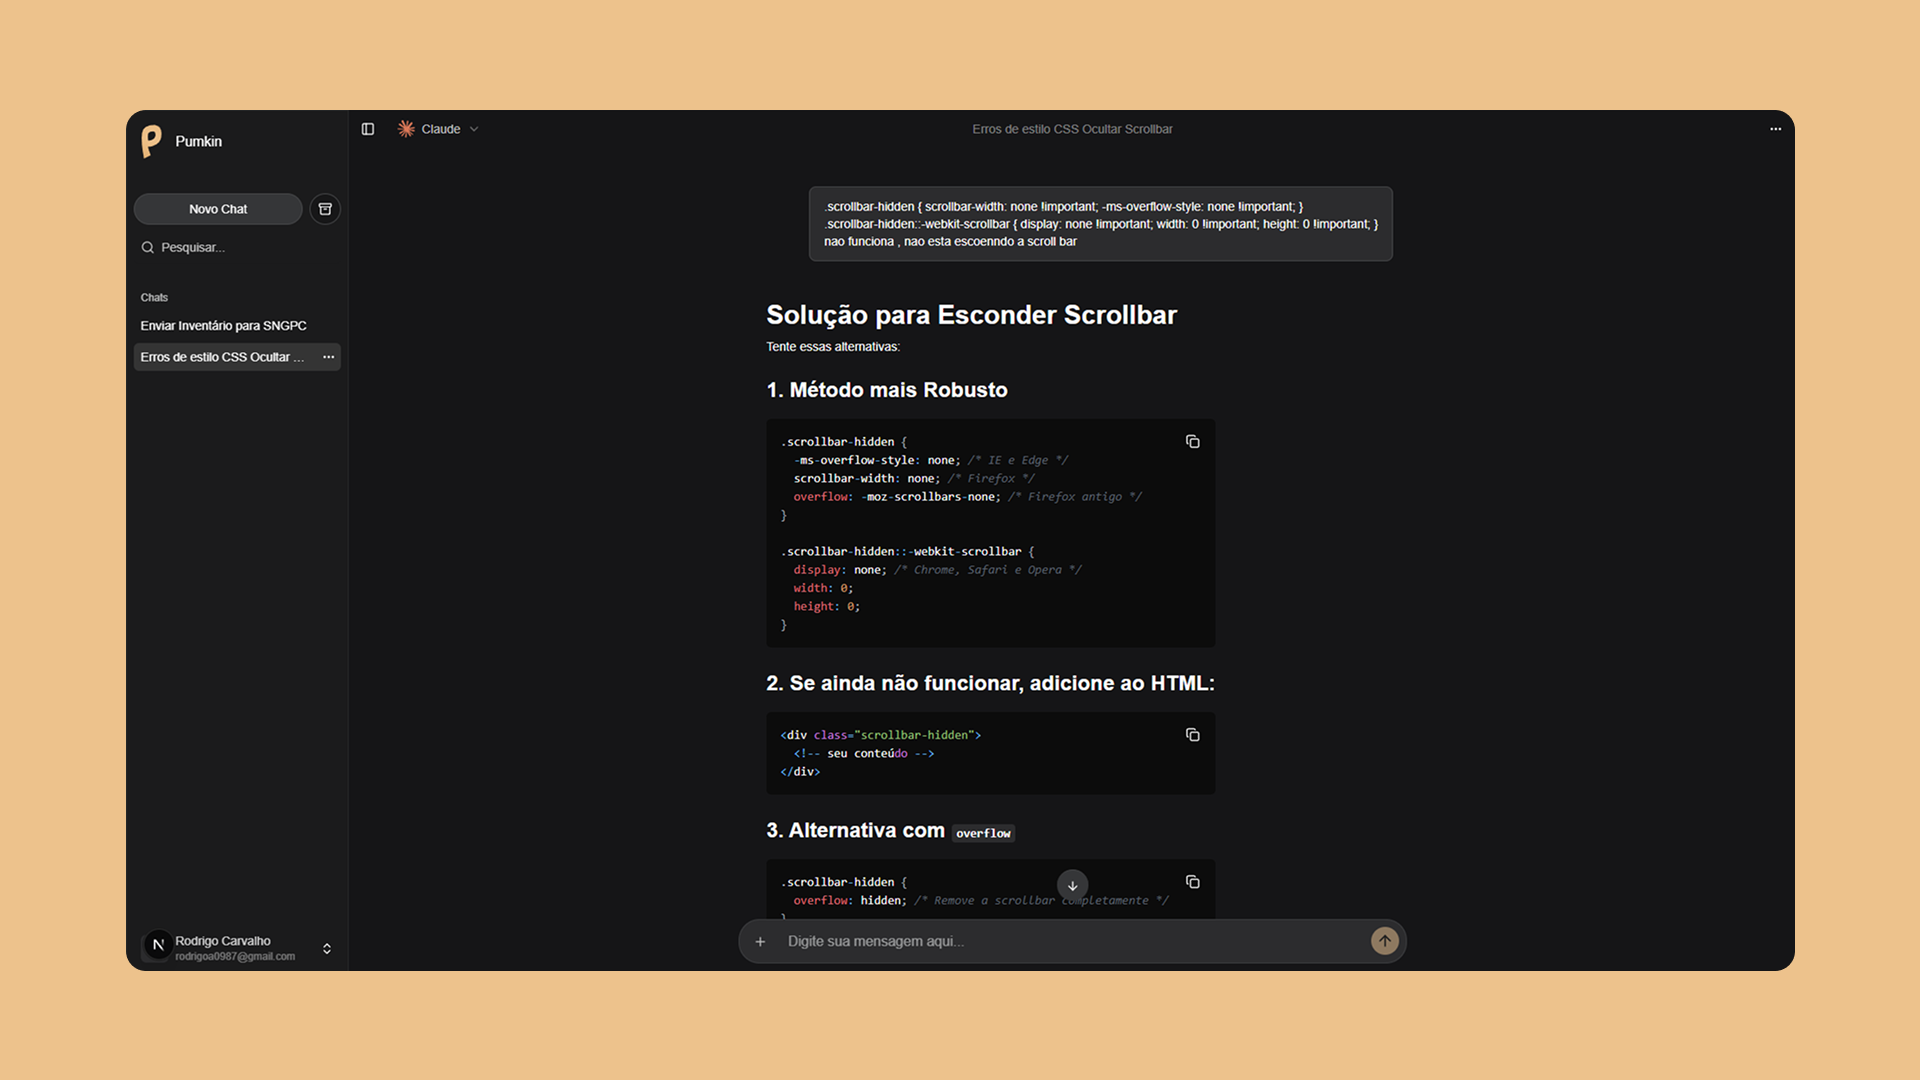
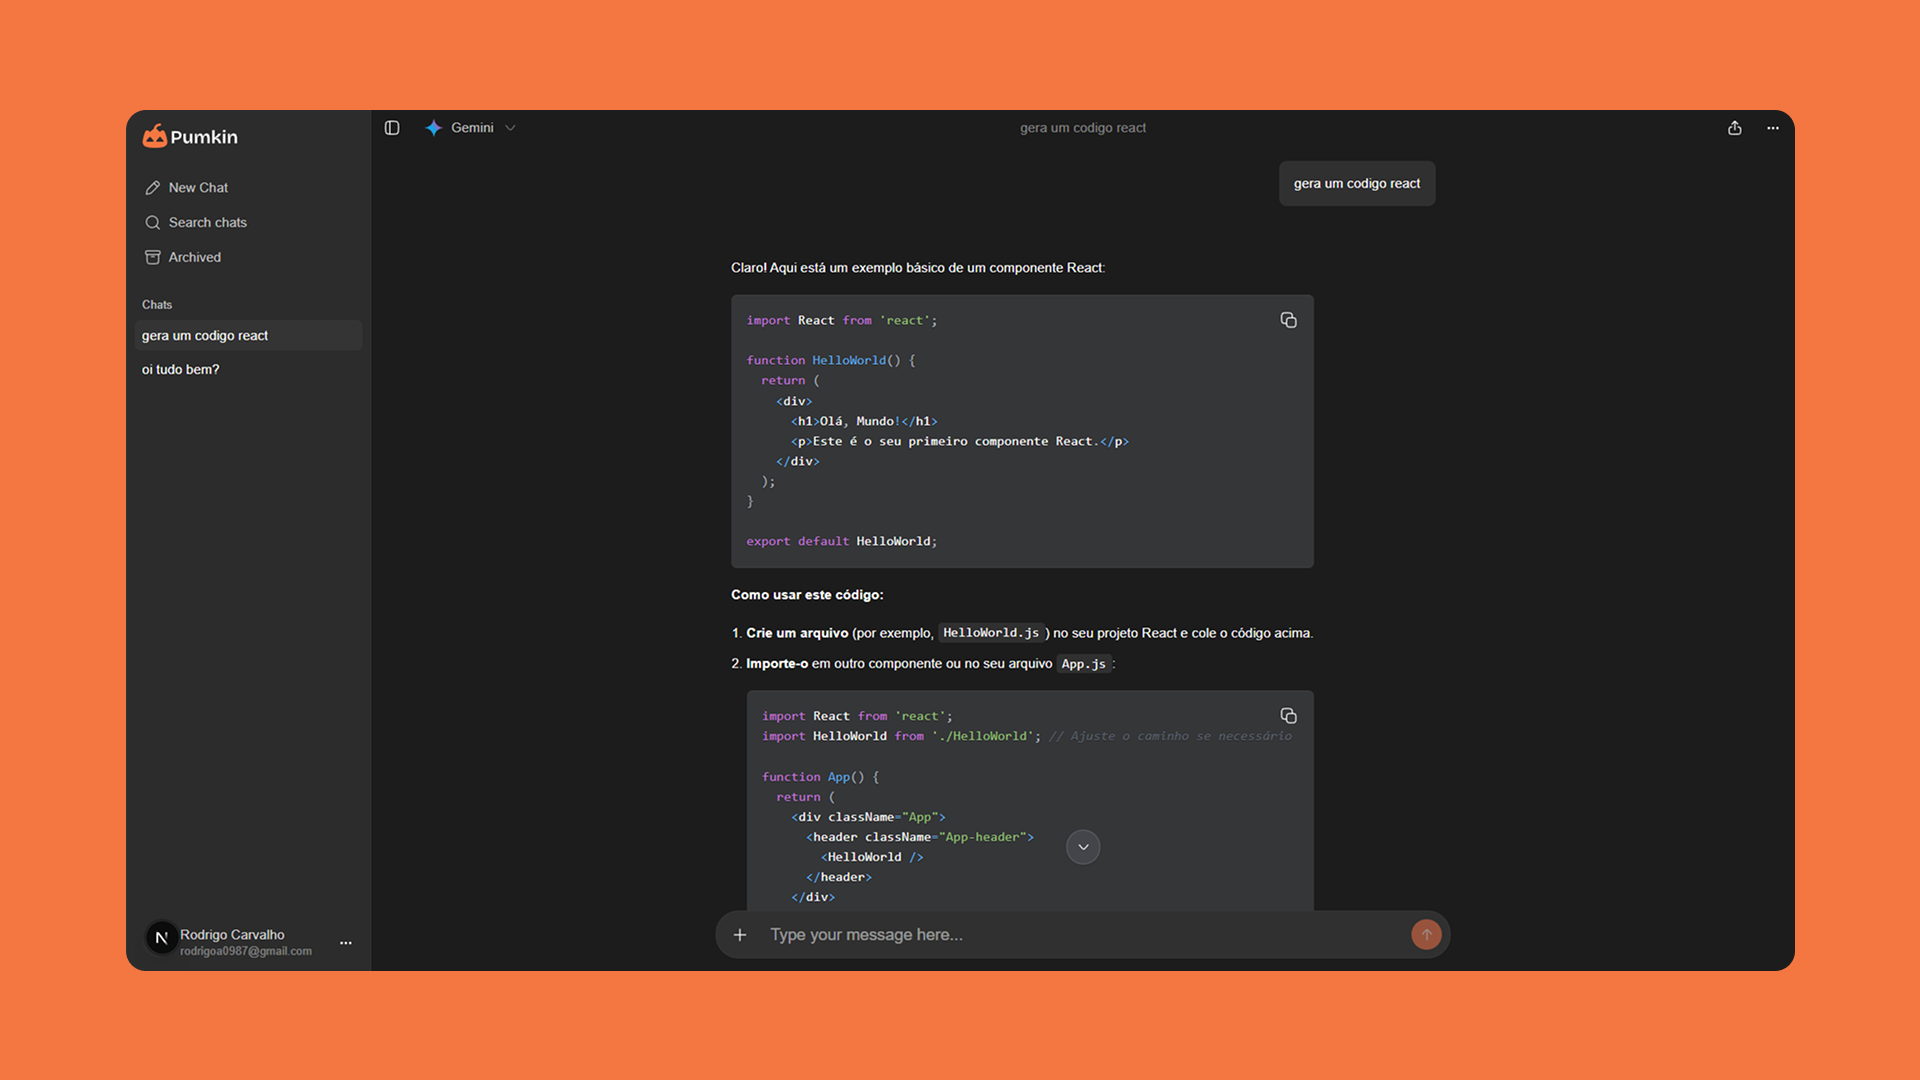
fix: copy and project

diff --git a/app/components/language-provider.tsx b/app/components/language-provider.tsx
@@ -69,7 +69,7 @@ const dictionaries: Record<Locale, Dictionary> = {
       blog: 'Blog',
     },
     summary: {
-      text: 'Full-Stack Developer with a Front-End focus, 2+ years of experience, and enthusiastic about building modern, scalable SaaS products. Seeking opportunities to grow technically, collaborate with high-performing teams, and contribute to high-impact projects.',
+      text: 'Full-Stack Developer with a Front-End focus, 2+ years of experience, and enthusiastic about building modern, scalable SaaS products.',
     },
     skills: {
       text: 'Next.js | React.js | TypeScript | Node.js | AWS | Git | Scrum | Kanban | Docker | AI/ML | REST APIs | PostgreSQL | CI/CD | Grafana | Redux / Zustand | React Query / TanStack Query | Jest / Vitest | Python | Django | Express.js | NestJS | Go',
@@ -124,7 +124,7 @@ const dictionaries: Record<Locale, Dictionary> = {
       blog: 'Blog',
     },
     summary: {
-      text: 'Desenvolvedor Full-Stack com foco em Front-End, +2 anos de experiência, entusiasta em soluções SaaS, Web modernas e escaláveis. Busco oportunidades para evoluir tecnicamente, colaborar com times de alto nível e contribuir para projetos de grande impacto.',
+      text: 'Desenvolvedor Full-Stack com foco em Front-End, +2 anos de experiência, entusiasta em soluções SaaS, Web modernas e escaláveis.',
     },
     skills: {
       text: 'Next.js | React.js | TypeScript | Node.js | AWS | Git | Scrum | Kanban | Docker | AI/ML | REST APIs | PostgreSQL | CI/CD | Grafana | Redux / Zustand | React Query / TanStack Query | Jest / Vitest | Python | Django | Express.js | NestJS | Go',
@@ -195,7 +195,7 @@ function getInitialLocale(): Locale {
 }
 
 export function LanguageProvider({ children }: { children: React.ReactNode }) {
-  const [locale, setLocaleState] = useState<Locale>(() => getInitialLocale())
+  const [locale, setLocaleState] = useState<Locale>('en')
 
   useEffect(() => {
     const initial = getInitialLocale()

diff --git a/app/data/projects.ts b/app/data/projects.ts
@@ -103,7 +103,7 @@ const projectsLocalized: ProjectLocalized[] = [
       'Zod',
       'React Hook Form',
     ],
-    colorBadge: 'bg-amber-500/5 text-amber-300',
+    colorBadge: 'bg-orange-500/5 text-orange-300',
   },
 ]
 
